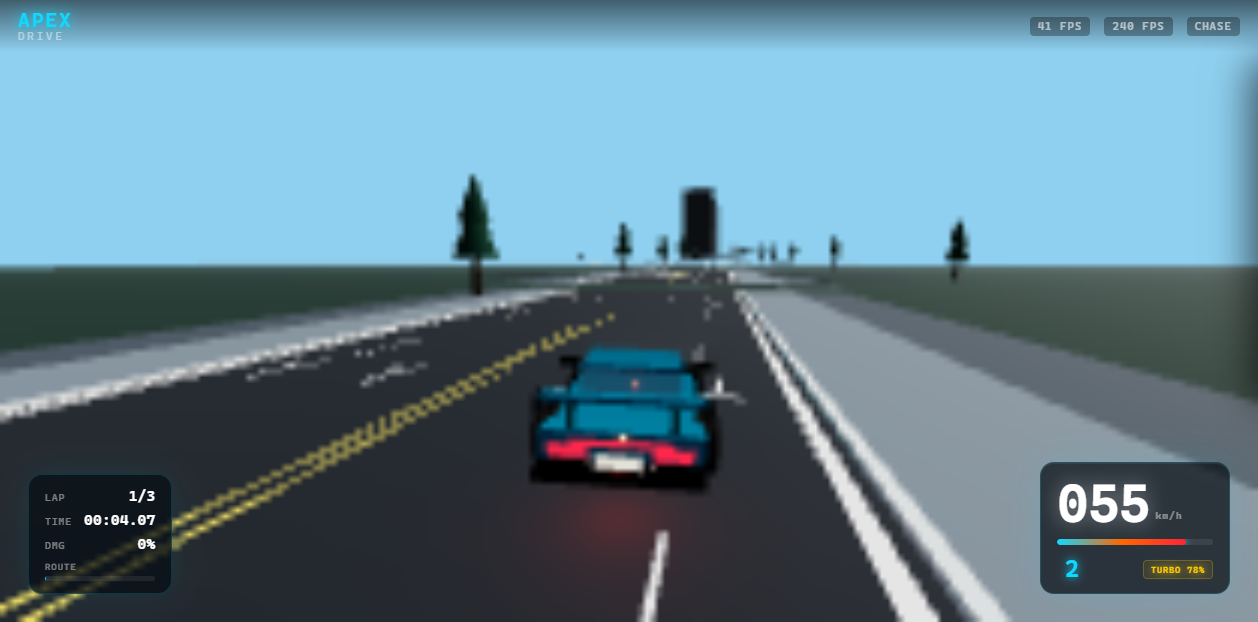
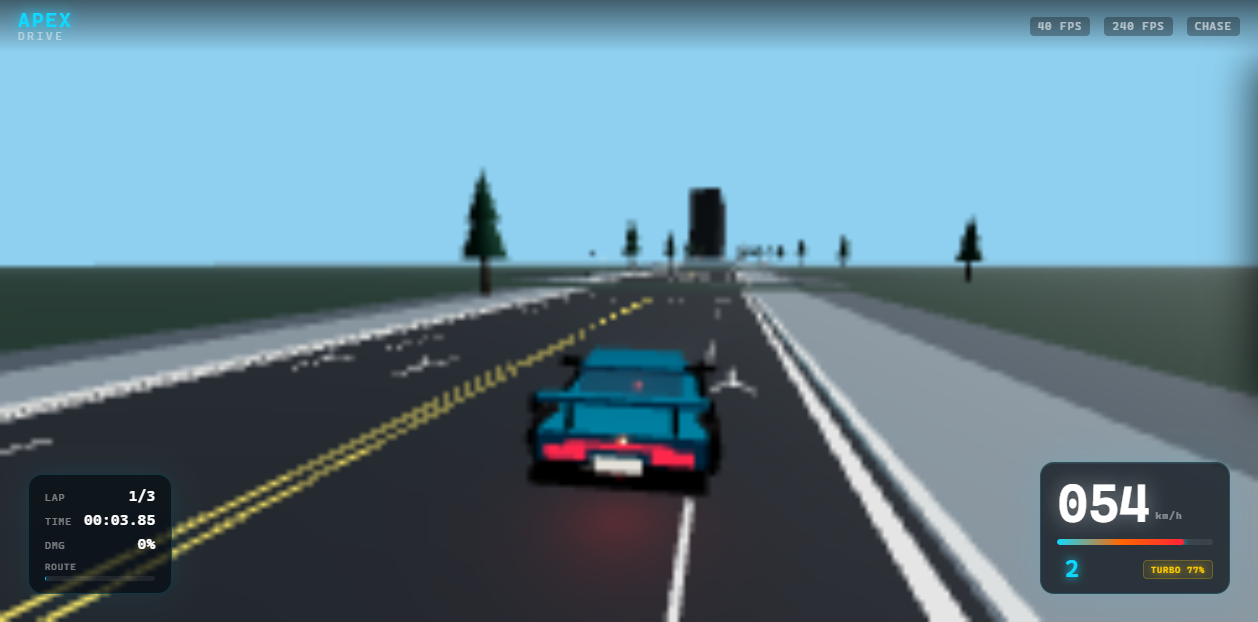
feat: implement physics-based CarController, define vehicle presets, and update default quality settings.

diff --git a/index.html b/index.html
@@ -82,8 +82,8 @@
               Quality
               <select id="qualitySelect">
                 <option value="Ultra">4K Ultra</option>
-                <option value="Balanced">Balanced</option>
-                <option value="240 FPS" selected>240 FPS</option>
+                <option value="Balanced" selected>Balanced</option>
+                <option value="240 FPS">240 FPS</option>
               </select>
             </label>
             <label>

diff --git a/src/systems/CarController.js b/src/systems/CarController.js
@@ -212,7 +212,7 @@ export class CarController {
     const curveYaw = Math.atan2(tangent.x, tangent.z);
 
     // Drift yaw: rear swings out
-    const steeringYaw = this.steer * Math.min(0.38, Math.abs(this.speed) / 140);
+    const steeringYaw = -this.steer * Math.min(0.38, Math.abs(this.speed) / 140);
     const driftYaw = -this.driftAmount * 0.82;
     this.yaw = THREE.MathUtils.lerp(this.yaw, curveYaw + steeringYaw + driftYaw, this.drifting ? 0.28 : 0.18);
 
@@ -239,7 +239,7 @@ export class CarController {
       wheel.rotation.x -= spinRate * 0.017; // continuous spin
       // Front wheels steer
       if (wheel.userData.isFront) {
-        wheel.rotation.y = this.steer * 0.42;
+        wheel.rotation.y = -this.steer * 0.42;
       }
     }
 

diff --git a/src/config.js b/src/config.js
@@ -38,7 +38,7 @@ export const CAR_PRESETS = [
 ];
 
 export const DEFAULT_SETTINGS = {
-  graphics: "240 FPS",
+  graphics: "Balanced",
   soundVolume: 0.75,
   musicVolume: 0.35,
   cameraSensitivity: 0.65,

diff --git a/src/systems/CameraRig.js b/src/systems/CameraRig.js
@@ -47,7 +47,7 @@ export class CameraRig {
     const fwd = car.forward.clone();   // unit vector car is FACING (toward -Z local)
     // "behind" = opposite of forward
     const back = fwd.clone().negate();
-    const right = new THREE.Vector3(-fwd.z, 0, fwd.x).normalize();
+    const right = new THREE.Vector3(fwd.z, 0, -fwd.x).normalize();
     const shake = car.cameraShake * (Math.random() - 0.5) * 0.6;
 
     // Target point to look at — slightly ahead of the car on the road